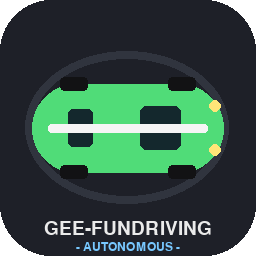
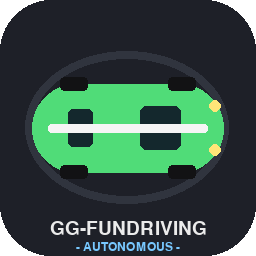
chore: rebrand gee-fundriving → gg-fundriving

Changed region(s): [[0.1562, 0.8438, 0.8438, 0.9375]]

diff --git a/webapp/index.html b/webapp/index.html
@@ -3,7 +3,7 @@
 <head>
   <meta charset="utf-8" />
   <meta name="viewport" content="width=device-width, initial-scale=1" />
-  <title>Gee-FunDriving</title>
+  <title>GG-FunDriving</title>
   <style>
     @import url("https://fonts.googleapis.com/css2?family=DM+Sans:wght@400;500;600;700&family=Manrope:wght@500;600;700&display=swap");
     :root {
@@ -242,14 +242,14 @@
   <main class="drive-area" aria-label="Simulator nyetir 3D"><canvas id="world-canvas"></canvas></main>
 
   <header class="topbar glass">
-    <span class="brand"><span class="mark">G</span><b>Gee-FunDriving</b></span>
+    <span class="brand"><span class="mark">G</span><b>GG-FunDriving</b></span>
     <div class="world-picker">
       <select id="world-select" aria-label="Dunia">
         <option value="loop">Loop City</option>
         <option value="circle">Sirkuit Lingkar</option>
       </select>
       <button id="new-world" title="Misi & dunia baru">⟳</button>
-      <a id="github-link" href="https://github.com/giangeralcus/gee-fundriving" target="_blank" rel="noopener noreferrer" title="GitHub">⭐</a>
+      <a id="github-link" href="https://github.com/giangeralcus/gg-fundriving" target="_blank" rel="noopener noreferrer" title="GitHub">⭐</a>
     </div>
   </header>
 
@@ -377,12 +377,12 @@
 
   <dialog id="about-dialog">
     <span class="eyebrow">TENTANG</span>
-    <h1>Gee-FunDriving</h1>
+    <h1>GG-FunDriving</h1>
     <p><b>Side hobby.</b> Simulasi buat ngarahin perkembangan <i>AI driving basics</i> aja — dasar-dasar nyetir otonom: nempel lajur, jaga jarak, patuh lampu merah &amp; rambu (STOP, batas kecepatan), sampai planner milih jalur sendiri. Fokus belajarnya: <b>integrasi navigasi ala Google Maps/Waze</b> — set tujuan &amp; waypoint — ke <b>kendaraan berbasis mobil</b>, dari city car sampai bus. Dibangun pelan-pelan, tiap iterasi diukur (benchmark + test) biar yang dasar beneran kuat dulu.</p>
     <p>Bukan produk, bukan riset formal — tempat bereksperimen otak nyetir (System-One decision loop, terinspirasi demo "rebuilt Tesla FSD with Jev" — TypeSafe AI). Peta Loop City & Sirkuit Lingkar bikinan sendiri; peta OSM nyata data © OpenStreetMap contributors.</p>
     <div class="dialog-actions">
       <a href="https://giangeralcus.com" target="_blank" rel="noopener noreferrer"><button class="secondary">🌐 giangeralcus.com</button></a>
-      <a href="https://github.com/giangeralcus/gee-fundriving" target="_blank" rel="noopener noreferrer"><button class="secondary">GitHub ⭐</button></a>
+      <a href="https://github.com/giangeralcus/gg-fundriving" target="_blank" rel="noopener noreferrer"><button class="secondary">GitHub ⭐</button></a>
       <button id="close-about" class="primary">Tutup</button>
     </div>
   </dialog>
@@ -390,7 +390,7 @@
   <div id="main-menu" hidden>
     <div class="menu-card">
       <span class="eyebrow">SIMULATOR NYETIR 3D</span>
-      <h1><span class="mark">G</span> Gee-FunDriving</h1>
+      <h1><span class="mark">G</span> GG-FunDriving</h1>
       <p class="menu-sub">Otopilot Gee · city car & bus · waypoint & rambu</p>
       <div class="menu-actions">
         <button id="menu-start" class="primary">▶&nbsp; Mulai nyetir</button>
@@ -428,7 +428,7 @@
   <div id="loading">
     <div class="box">
       <div class="car">🚗💨</div>
-      <h2>Gee-FunDriving</h2>
+      <h2>GG-FunDriving</h2>
       <div id="loading-message">Menyiapkan dunia…</div>
       <div class="bar"><i id="loading-bar"></i></div>
     </div>

diff --git a/webapp/src/main.js b/webapp/src/main.js
@@ -1,4 +1,4 @@
-// Gee-FunDriving Web — bootstrap ala jevpilot: loading screen, muat peta,
+// GG-FunDriving Web — bootstrap ala jevpilot: loading screen, muat peta,
 // sim 60fps fixed-step, HUD lengkap, manual (WASD/stick) atau otopilot (J).
 // Param URL: ?brain=v3  ?jev=https://...  ?traffic=1 (aktifkan mobil AI)
 

diff --git a/fundriving.py b/fundriving.py
@@ -1,6 +1,6 @@
 #!/usr/bin/env python3
 """
-Gee-FunDriving — sim nyetir 2D top-down.
+GG-FunDriving — sim nyetir 2D top-down.
 
 MODE:
 1. Sirkuit (default)     : track oval, brain rule-based System-One loop.
@@ -16,7 +16,7 @@ MODE:
 
 Headless: rekam MP4 (butuh ffmpeg). Mulai langsung nyetir sendiri: --manual.
 Windowed tanpa argumen: main menu START / SETTINGS / ABOUT / EXIT — setelan
-(mode, peta, fps render, kecepatan) tersimpan di ~/gee-fundriving/settings.json;
+(mode, peta, fps render, kecepatan) tersimpan di ~/gg-fundriving/settings.json;
 ESC di game balik ke menu. --speed 1.25 = pengali kecepatan basis (CLI).
 """
 import json
@@ -34,7 +34,8 @@ W, H = 960, 540
 FPS = 60              # tick fisika simulasi (Hz) — semua konstanta tuning diikat ke sini
 RENDER_FPS = 30       # render + input + rekam video (fps)
 RENDER_EVERY = FPS // RENDER_FPS   # fisika jalan tiap tick, render tiap N tick
-SETTINGS_PATH = os.path.join(os.path.expanduser("~"), "gee-fundriving", "settings.json")
+SETTINGS_PATH = os.path.join(os.path.expanduser("~"), "gg-fundriving", "settings.json")
+SETTINGS_PATH_LEGACY = os.path.join(os.path.expanduser("~"), "gee-fundriving", "settings.json")
 SPEED_STEPS = (0.5, 0.75, 1.0, 1.25, 1.5)   # pengali kecepatan basis
 
 
@@ -1479,7 +1480,7 @@ def draw_map(surf, world, car, cam, state, dec, stats, traffic, signals, mission
         gx, gy = world.nodes[mission.goal]
         gdist = math.hypot(car.x - gx, car.y - gy)
     hud(surf, [
-        f"Gee-FunDriving | {world.meta['name']} | {dec.get('mode', '')}",
+        f"GG-FunDriving | {world.meta['name']} | {dec.get('mode', '')}",
         f"speed {car.speed:.1f}  alive {car.alive_time // FPS}s  wp {car.wp_i}/{len(car.route)}",
         f"he {dec.get('he', 0):.0f}  lat {dec.get('lat', 0):.0f}m  {dec.get('acc', '')} {name}".replace("  ", " "),
         f"misi #{mission.n + 1} -> {gdist:.0f}m | skor {mission.score} | merah {mission.reds} tabrak {mission.crashes}",
@@ -1730,7 +1731,7 @@ def run_map(mapfile, headless, seconds, surf, clock, outdir,
                 pygame.display.flip()
                 clock.tick(RENDER_FPS)
     if headless and record and shutil.which("ffmpeg"):
-        mp4 = os.path.join(outdir, "gee_fundriving_demo.mp4")
+        mp4 = os.path.join(outdir, "gg_fundriving_demo.mp4")
         # urutan gambar (%05d), bukan glob — build ffmpeg Windows gak dukung glob
         subprocess.run([
             "ffmpeg", "-y", "-loglevel", "error", "-f", "image2",
@@ -1787,9 +1788,12 @@ def run_circuit(headless, seconds, surf, clock, auto_start=True):
 
 
 def load_settings():
-    """Setelan tersimpan di ~/gee-fundriving/settings.json (mode, peta, fps render)."""
+    """Setelan tersimpan di ~/gg-fundriving/settings.json (mode, peta, fps render)."""
+    path = SETTINGS_PATH
+    if not os.path.exists(path) and os.path.exists(SETTINGS_PATH_LEGACY):
+        path = SETTINGS_PATH_LEGACY
     try:
-        with open(SETTINGS_PATH, encoding="utf-8") as f:
+        with open(path, encoding="utf-8") as f:
             s = json.load(f)
     except Exception:
         s = {}
@@ -1914,7 +1918,7 @@ def about_screen(surf, clock):
     big = pygame.font.SysFont("dejavusansbold", 40)
     font = pygame.font.SysFont("dejavusansmono", 16)
     lines = [
-        ("Gee-FunDriving", (240, 240, 240)),
+        ("GG-FunDriving", (240, 240, 240)),
         ("", None),
         ("Side hobby: simulasi buat ngarahin perkembangan", None),
         ("AI driving basics aja — dasar-dasar nyetir otonom:", None),
@@ -1945,7 +1949,7 @@ def about_screen(surf, clock):
         surf.fill((24, 26, 32))
         y = 40
         for txt, col in lines:
-            f = big if txt == "Gee-FunDriving" else font
+            f = big if txt == "GG-FunDriving" else font
             c = col if col else (200, 205, 215)
             surf.blit(f.render(txt, True, c), (120, y))
             y += 26 if f is font else 52
@@ -2057,7 +2061,7 @@ def main_menu(surf, clock, settings):
             surf.blit(logo, (W // 2 - logo.get_width() // 2, top))
             top += logo.get_height() + 14
         else:
-            t = big.render("Gee-FunDriving", True, (240, 240, 240))
+            t = big.render("GG-FunDriving", True, (240, 240, 240))
             surf.blit(t, (W // 2 - t.get_width() // 2, top))
             top += t.get_height() + 16
         y = top + 10
@@ -2110,7 +2114,7 @@ def main():
         goal_coord = (poi[b]["lat"], poi[b]["lon"])
         print(f"rute patokan: {poi[a].get('name', a)} -> {poi[b].get('name', b)}", file=sys.stderr)
 
-    outdir = os.path.expanduser("~/gee-fundriving")
+    outdir = os.path.expanduser("~/gg-fundriving")
     os.makedirs(outdir, exist_ok=True)
 
     if headless:
@@ -2118,7 +2122,7 @@ def main():
     pygame.init()
     if not headless:
         surf = pygame.display.set_mode((W, H))
-        pygame.display.set_caption("Gee-FunDriving")
+        pygame.display.set_caption("GG-FunDriving")
     else:
         surf = pygame.Surface((W, H))
     clock = pygame.time.Clock()

diff --git a/tools/fetch_osm.py b/tools/fetch_osm.py
@@ -1,6 +1,6 @@
 #!/usr/bin/env python3
 """Fetch jalan + bangunan + area dari OpenStreetMap via Overpass API,
-konversi ke map format Gee-FunDriving.
+konversi ke map format GG-FunDriving.
 
 Pakai:
   python tools/fetch_osm.py                          # default: Puri Indah -> Cengkareng/Taman Palem
@@ -60,7 +60,7 @@ def fetch(query, timeout=300):
     last_err = None
     for i, url in enumerate(OVERPASS_ENDPOINTS):
         try:
-            req = urllib.request.Request(url, data=data, headers={"User-Agent": "GeeFunDriving/1.0"})
+            req = urllib.request.Request(url, data=data, headers={"User-Agent": "GGFunDriving/1.0"})
             with urllib.request.urlopen(req, timeout=timeout) as r:
                 return json.load(r)
         except Exception as e:

diff --git a/tools/make_logo.py b/tools/make_logo.py
@@ -1,5 +1,5 @@
 #!/usr/bin/env python3
-"""Generate logo Gee-FunDriving: mobil & motor 2D flat, dark bg, racing stripe."""
+"""Generate logo GG-FunDriving: mobil & motor 2D flat, dark bg, racing stripe."""
 import math
 
 import pygame
@@ -104,7 +104,7 @@ def make_logo(size, out, mode="both"):
     # teks kecil di bawah
     try:
         font = pygame.font.SysFont("dejavusansbold", max(12, size // 9))
-        txt = font.render("GEE-FUNDRIVING", True, (235, 235, 235))
+        txt = font.render("GG-FUNDRIVING", True, (235, 235, 235))
         surf.blit(txt, txt.get_rect(center=(size // 2, size - size // 9)))
         font2 = pygame.font.SysFont("dejavusansbold", max(10, size // 14))
         txt2 = font2.render("- AUTONOMOUS -", True, (120, 200, 255))

diff --git a/tools/benchmark.py b/tools/benchmark.py
@@ -54,7 +54,7 @@ def main():
         print(f"=== {label} ===", file=sys.stderr)
         surf = pygame.Surface((W, H))
         clock = pygame.time.Clock()
-        out = os.path.expanduser("~/gee-fundriving")
+        out = os.path.expanduser("~/gg-fundriving")
         if IS_LOOP:
             r = fd.run_map(MAPFILE, True, args.seconds, surf, clock, out,
                            record=False, brain=args.brain)

diff --git a/tools/make_loopmap.py b/tools/make_loopmap.py
@@ -1,5 +1,5 @@
 #!/usr/bin/env python3
-"""Generate Loop City — peta internal Gee-FunDriving yang gampang diadaptasi.
+"""Generate Loop City — peta internal GG-FunDriving yang gampang diadaptasi.
 
 Ring jalan besar (rounded rectangle) + jalan cross (biar ada simpang lampu)
 + bangunan + area hijau. Output: maps/loop_city.json (format sama dgn OSM).

diff --git a/tools/jev_brain.py b/tools/jev_brain.py
@@ -1,4 +1,4 @@
-"""Otak Jev live buat Gee-FunDriving (TypeSafe System One).
+"""Otak Jev live buat GG-FunDriving (TypeSafe System One).
 
 Pola sesuai skill typesafe-ai: kode pegang workflow + eksekusi halus,
 Jev cuma kasih judgment terstruktur (Choice maneuver + Noul rem darurat).

diff --git a/README.md b/README.md
@@ -1,8 +1,8 @@
-# Gee-FunDriving 🚗💨
+# GG-FunDriving 🚗💨
 
 Simulasi nyetir 2D top-down: **1 mobil autonomous** keliling sirkuit dengan *System-One decision loop* — inspirasi dari [demo "rebuilt Tesla FSD with Jev"](https://x.com/jpschroeder/status/2100347770867458384) (TypeSafe AI's Jev model).
 
-![Gee-FunDriving](assets/logo-both.png)
+![GG-FunDriving](assets/logo-both.png)
 
 ![gameplay](docs/demo.png)
 
@@ -31,7 +31,7 @@ v·tan(delta)/wheelbase, sudut roda di-rate-limit) **+ batas genggam lateral
 0,55) **+ hambatan jalan** (rolling + drag kuadratik — mobil nyelesai sendiri
 tanpa gas) — belokan halus dan otomatis ikut skala kendaraan (bus radius
 putarnya lebar). Planner jalan di web worker. Live:
-**https://gee-fundriving.pages.dev**
+**https://gg-fundriving.pages.dev**
 
 Default mode **satu kendaraan** (challenge penyempurnaan mobil hero: lane
 keeping, tikungan, lampu merah). Mau mobil AI balik? `?traffic=1`.
@@ -95,7 +95,7 @@ Fitur map mode:
 - **Mode misi**: skor = rute terpendek ÷ rute ditempuh × 1000, −40/lampu merah, −25/tabrakan; selesai → auto misi baru
 - **Lalu lintas**: mobil AI random-walk di graf (lane kanan, jaga jarak, deteksi hero) + lampu lalu lintas siklus 7 detik, nyabrang merah kena denda
 - **Nama jalan** di dekat mobil, pathfinding A* di graf OSM
-- **Main menu**: `python fundriving.py` tanpa argumen → **START / SETTINGS / ABOUT / API KEY / EXIT** (API KEY buat tempel key TypeSafe langsung dari game — masking, tersimpan di `.env`). SETTINGS ngatur mode (assistant / kendali sendiri), peta (Loop City / sirkuit / OSM kalau ada), dan render FPS 30/60 — tersimpan di `~/gee-fundriving/settings.json`. ESC di game balik ke menu; windowed tanpa `--seconds` = main tanpa timer
+- **Main menu**: `python fundriving.py` tanpa argumen → **START / SETTINGS / ABOUT / API KEY / EXIT** (API KEY buat tempel key TypeSafe langsung dari game — masking, tersimpan di `.env`). SETTINGS ngatur mode (assistant / kendali sendiri), peta (Loop City / sirkuit / OSM kalau ada), dan render FPS 30/60 — tersimpan di `~/gg-fundriving/settings.json`. ESC di game balik ke menu; windowed tanpa `--seconds` = main tanpa timer
 - **Bisa dikendarai sendiri**: tekan `F` untuk lepas dari assistant dan kemudikan mobil pakai `WASD`/arrow (`W`/`↑` gas, `S`/`↓` rem, `A`/`D` belok — kemudi di-smooth biar gak jerk). Tekan `F` lagi buat balik ke autopilot. Mulai langsung dari kemudi: `--manual`. Di mode manual kamu yang nyabrang lampu merah (denda tetap masuk) dan nggak ada snap balik ke rute
 - **Kamera follow** + zoom `[-][=]`, `R` misi baru, `F` assistant ON/OFF, `ESC` keluar, FPS live di HUD; render 30fps (fisika tetap 60Hz), rekaman MP4 headless 30fps real-time
 

diff --git a/docs/PELAJARAN.md b/docs/PELAJARAN.md
@@ -1,4 +1,4 @@
-# Catatan Pelajaran — Perjalanan Ngerjain Gee-FunDriving
+# Catatan Pelajaran — Perjalanan Ngerjain GG-FunDriving
 
 Dokumen ini nyatet pelajaran-pelajaran (bug, jebakan, pola) dari perjalanan
 ngerjain proyek: dari simulasi desktop jadi playable, sampai port ke web.
